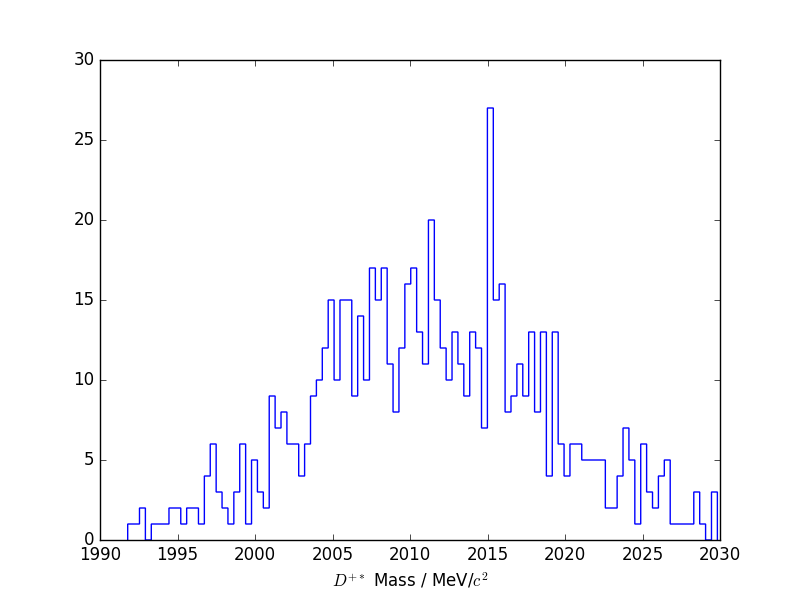
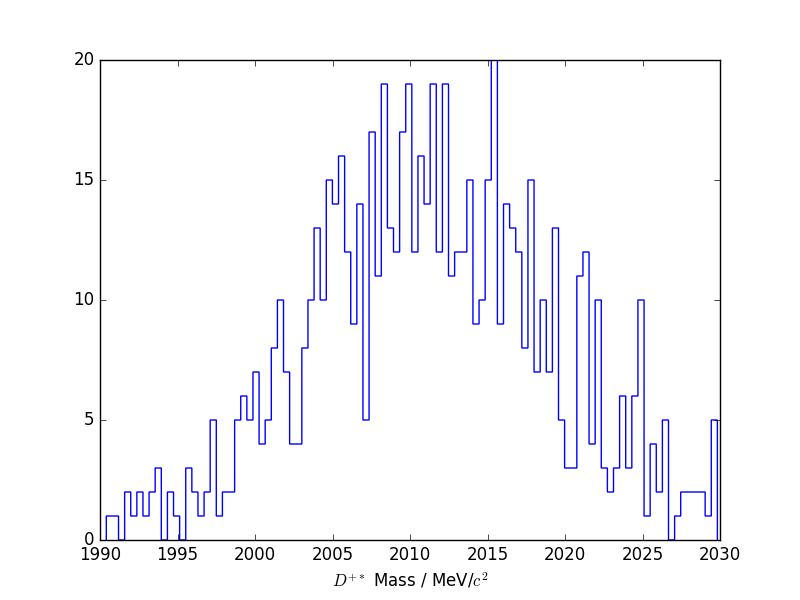
More cuts, lifetime of 0.654 ps
Add cuts which look at transverse momentum of daughters. Also compare
distributions of momenta — this will be useful to develop a probability
based model.

diff --git a/Code/Lifetime.py b/Code/Lifetime.py
@@ -72,6 +72,10 @@ class CandidateEvent(object):
 	@lazy_property.LazyProperty
 	def pPslow(self):
 		return magnitude(self.ps)
+
+	@lazy_property.LazyProperty
+	def pPslow_t(self):
+		return magnitude(self.ps[0:1])
 	
 	@lazy_property.LazyProperty
 	def pD0(self):
@@ -202,7 +206,7 @@ def plotData(data):
 	pl.close()
 
 	# decay time curve
-	hist, bin_edges = np.histogram(times, bins=100, range=(0.15, 10))
+	hist, bin_edges = np.histogram(times, bins=100, range=(0.4, 10))
 	num_events = np.sum(hist)
 	print(num_events, ' events')
 	time = bin_edges[1:]
@@ -227,6 +231,14 @@ def plotData(data):
 	# print('partial width   \t' + str(c**2 * 1e-6 * hbar/(partial_lifetime*1e-12) / e) + ' MeV/c2')
 
 
+def plot_compare(accepted, rejected, prop, name):
+	diffs_a, diffs_r = [getattr(d, prop) for d in accepted], [getattr(d, prop) for d in rejected]
+	f, axarr = pl.subplots(2, sharex=True)
+	axarr[0].hist(diffs_a, 100, facecolor='green')
+	axarr[1].hist(diffs_r, 100, facecolor='red')
+	pl.savefig(name+'-compare.png')
+	pl.close()
+
 
 # takes list of candidate events, cuts them by their mass diff
 def cutEventSet_massDiff(events):
@@ -238,7 +250,6 @@ def cutEventSet_massDiff(events):
 	initial = [20, 220, 146, 2, 0.5]
 
 	diffs = [d.massDiff_d0dstar for d in events]
-
 	hist, bin_edges = np.histogram(diffs, bins=500)
 	masses = bin_edges[1:]
 
@@ -253,10 +264,12 @@ def cutEventSet_massDiff(events):
 
 	# cut at 4 widths
 	bg_A, sig_A, sig_centre, sig_w, r = po
-	width = .5
+	width = 1.
 	range_low, range_up = sig_centre - sig_w*width, sig_centre + sig_w*width
 	print('range', range_low, range_up)
-	return list(filter(lambda event: range_low <= event.massDiff_d0dstar <= range_up, events))
+	accepted = [event for event in events if range_low <= event.massDiff_d0dstar <= range_up]
+	rejected = [event for event in events if not range_low <= event.massDiff_d0dstar <= range_up]
+	return accepted, rejected
 
 
 
@@ -271,9 +284,16 @@ print('mass', mass, mass*1e-6*c**2 / e, time, time*1e15)
 
 filtered = data
 # cut on mass diff
-filtered = cutEventSet_massDiff(filtered)
+filtered, rejected = cutEventSet_massDiff(filtered)
+
+plot_compare(filtered, rejected, 'pD0_t', 'pd0-t')
+plot_compare(filtered, rejected, 'pPslow', 'pslow')
+plot_compare(filtered, rejected, 'pPslow_t', 'pslow-t')
+
 # cut on transverse momentum
-filtered = [d for d in filtered if 3000 <= d.pD0_t]
+filtered = [d for d in filtered if 2500 <= d.pD0_t <= 20000]
+filtered = [d for d in filtered if 2000 <= d.pPslow]
+filtered = [d for d in filtered if 300 <= d.pPslow_t]
 
 # remove width
 d0_c, dstar_c = 1865., 2010.
@@ -286,9 +306,7 @@ filtered = [event for event in filtered if (d0_c-width) <= mass_toMeV(event.reco
 plotData(filtered)
 
 # mass dist
-offs = [d.pD0_t for d in filtered]
-ps = [d.pPslow for d in data]
+offs = [d.pPslow for d in filtered]
 pl.hist(offs, bins=100, histtype='step', fill=False)
 pl.savefig('offsets.png')
 pl.close()
-
